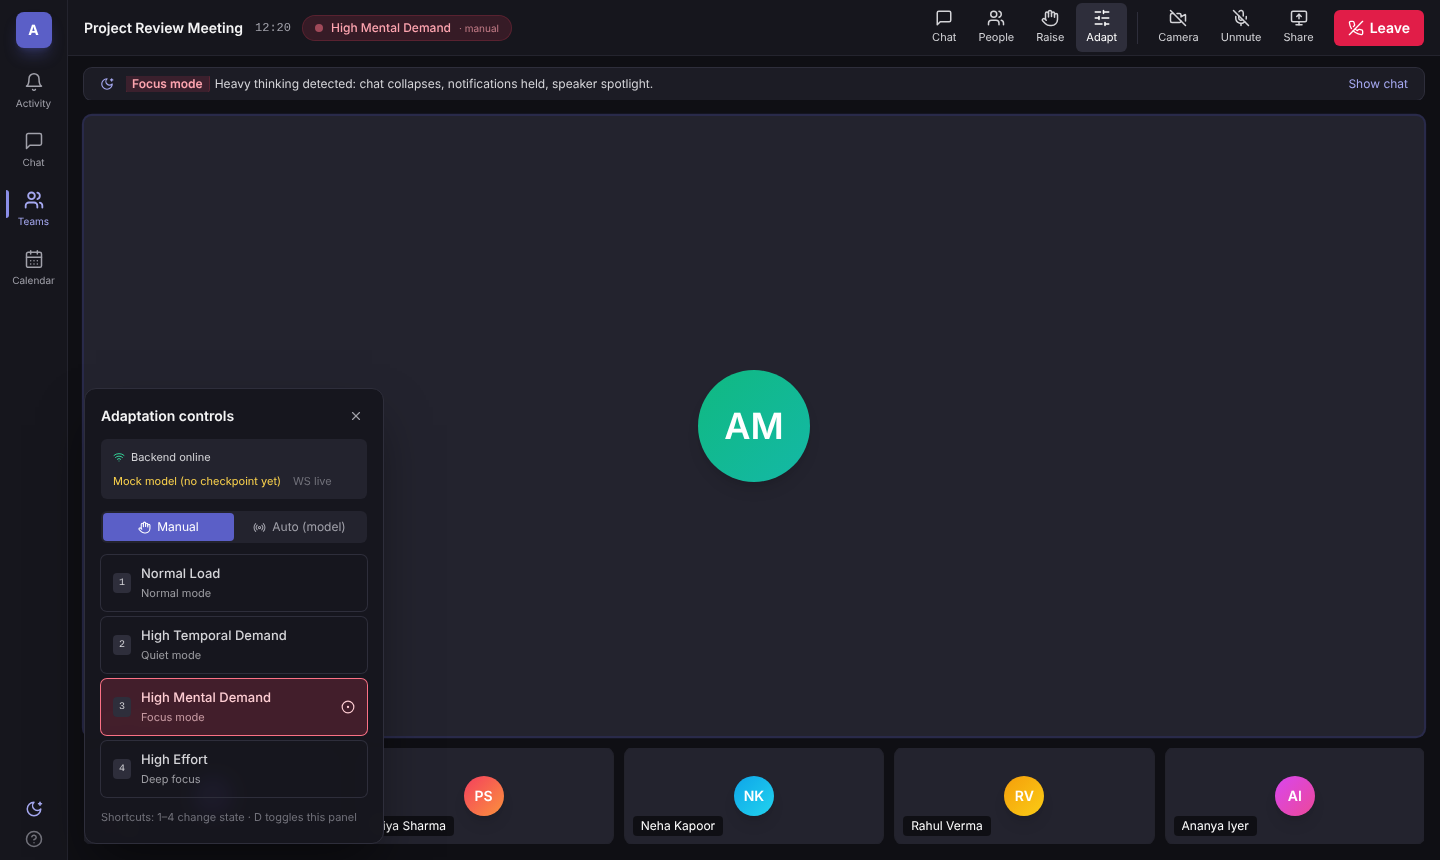
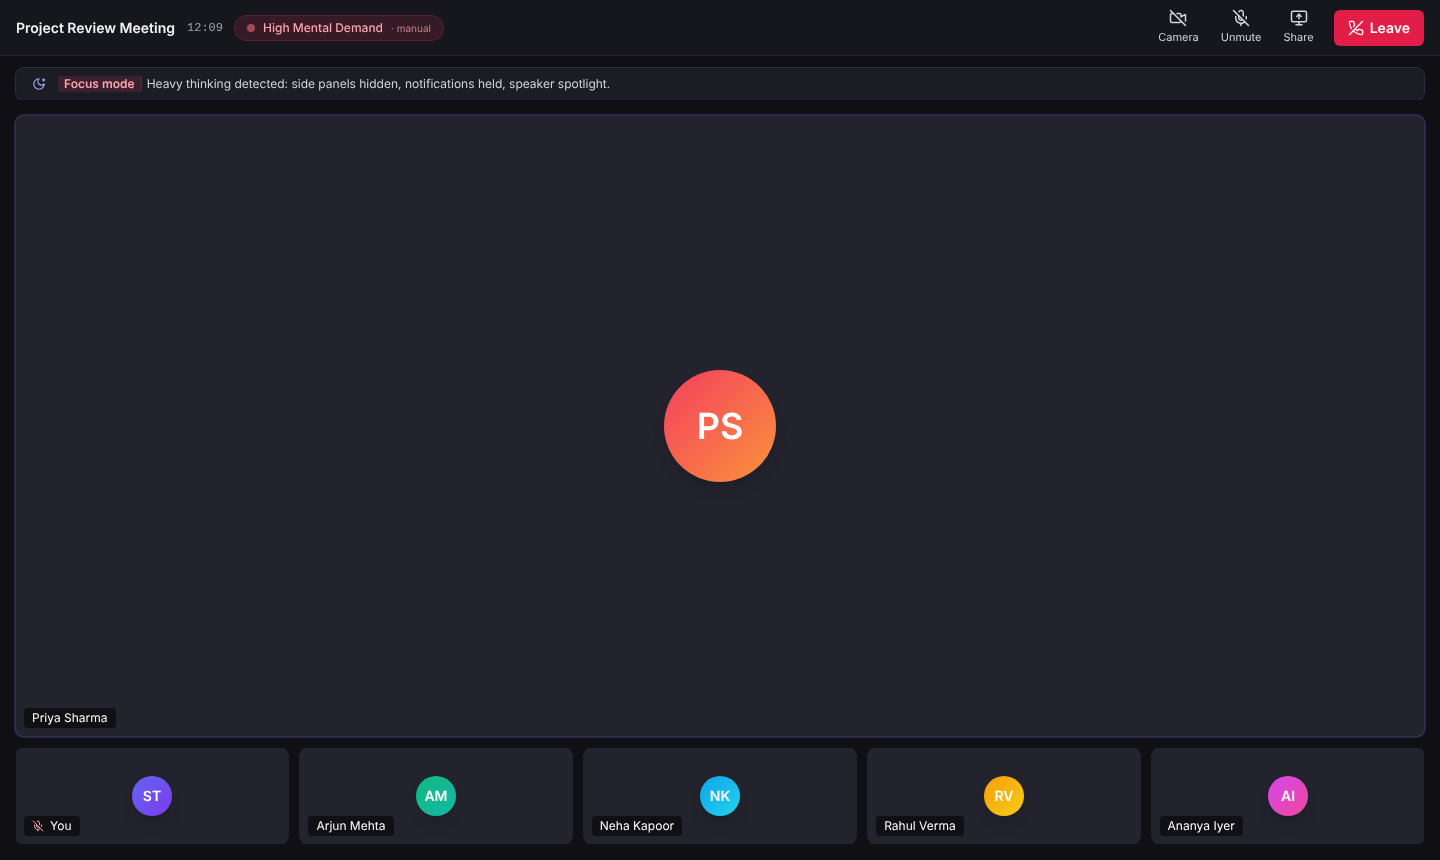
Focus and Deep focus: hide side panels, keep only Camera/Mic/Share

diff --git a/frontend/src/App.js b/frontend/src/App.js
@@ -28,7 +28,8 @@ export default function App() {
 
   // ---- meeting UI state ------------------------------------------------------
   const [chatOverride, setChatOverride] = useState(null); // user's own open/close beats the policy until the state changes
-  const chatOpen = chatOverride ?? adapt.chatOpen;
+  const minimal = Boolean(adapt.minimal); // Focus / Deep focus: no side panels, essential controls only
+  const chatOpen = minimal ? false : chatOverride ?? adapt.chatOpen;
   const [panelTab, setPanelTab] = useState("chat");
   const [demoOpen, setDemoOpen] = useState(true);
   const [micOn, setMicOn] = useState(false);
@@ -163,7 +164,7 @@ export default function App() {
       const idx = Number(e.key) - 1;
       if (idx >= 0 && idx < STATE_NAMES.length) setManualState(STATE_NAMES[idx]);
       else if (e.key.toLowerCase() === "d") setDemoOpen((o) => !o);
-      else if (e.key.toLowerCase() === "c") setChatOverride(!chatOpen);
+      else if (e.key.toLowerCase() === "c" && !STATES[stateRef.current].adapt.minimal) setChatOverride(!chatOpen);
     };
     window.addEventListener("keydown", onKey);
     return () => window.removeEventListener("keydown", onKey);
@@ -186,12 +187,18 @@ export default function App() {
 
   return (
     <div className="flex h-screen overflow-hidden bg-shell-950 font-sans text-zinc-100">
-      <LeftRail
-        badges={unread}
-        showBadges={adapt.badges}
-        focusActive={isFocusMode}
-        onSelect={(id) => (id === "chat" || id === "activity") && openPanel(id)}
-      />
+      {/* Left rail slides away in minimal modes */}
+      <div
+        className={`shrink-0 overflow-hidden transition-[width] duration-500 ease-in-out ${minimal ? "w-0" : "w-[68px]"}`}
+        aria-hidden={minimal}
+      >
+        <LeftRail
+          badges={unread}
+          showBadges={adapt.badges}
+          focusActive={isFocusMode}
+          onSelect={(id) => (id === "chat" || id === "activity") && openPanel(id)}
+        />
+      </div>
 
       <div className="flex min-w-0 flex-1 flex-col">
         <TopBar
@@ -204,6 +211,7 @@ export default function App() {
           chatOpen={chatOpen}
           chatBadge={badgeChat}
           demoOpen={demoOpen}
+          minimal={minimal}
           onToggleMic={() => setMicOn((v) => !v)}
           onToggleCam={() => setCamOn((v) => !v)}
           onToggleShare={() => setSharing((v) => !v)}
@@ -230,7 +238,7 @@ export default function App() {
                   {s.description}
                   {heldCount > 0 && <span className="ml-1 text-zinc-400">· {heldCount} held</span>}
                 </span>
-                {!chatOpen && (
+                {!chatOpen && !minimal && (
                   <button onClick={() => openPanel("chat")} className="shrink-0 text-brand-300 hover:text-brand-200">
                     Show chat
                   </button>

diff --git a/frontend/src/components/TopBar.js b/frontend/src/components/TopBar.js
@@ -30,7 +30,7 @@ function Ctrl({ label, active, onClick, children, badge, className = "" }) {
 }
 
 export default function TopBar({
-  cognitiveState, source, micOn, camOn, sharing, handRaised, chatOpen, chatBadge, demoOpen,
+  cognitiveState, source, micOn, camOn, sharing, handRaised, chatOpen, chatBadge, demoOpen, minimal,
   onToggleMic, onToggleCam, onToggleShare, onToggleHand, onToggleChat, onToggleDemo, onLeave,
 }) {
   const elapsed = useElapsed();
@@ -43,20 +43,25 @@ export default function TopBar({
       </div>
 
       <div className="flex items-center gap-0.5">
-        <Ctrl label="Chat" active={chatOpen} onClick={onToggleChat} badge={chatBadge}>
-          <MessageSquare size={18} />
-        </Ctrl>
-        <Ctrl label="People">
-          <Users size={18} />
-        </Ctrl>
-        <Ctrl label="Raise" active={handRaised} onClick={onToggleHand}>
-          <Hand size={18} />
-        </Ctrl>
-        <Ctrl label="Adapt" active={demoOpen} onClick={onToggleDemo}>
-          <SlidersHorizontal size={18} />
-        </Ctrl>
+        {/* Hidden in Focus / Deep focus: only Camera, Mic and Share stay */}
+        {!minimal && (
+          <>
+            <Ctrl label="Chat" active={chatOpen} onClick={onToggleChat} badge={chatBadge}>
+              <MessageSquare size={18} />
+            </Ctrl>
+            <Ctrl label="People">
+              <Users size={18} />
+            </Ctrl>
+            <Ctrl label="Raise" active={handRaised} onClick={onToggleHand}>
+              <Hand size={18} />
+            </Ctrl>
+            <Ctrl label="Adapt" active={demoOpen} onClick={onToggleDemo}>
+              <SlidersHorizontal size={18} />
+            </Ctrl>
 
-        <span className="mx-2 h-8 w-px bg-shell-700" />
+            <span className="mx-2 h-8 w-px bg-shell-700" />
+          </>
+        )}
 
         <Ctrl label="Camera" active={camOn} onClick={onToggleCam}>
           {camOn ? <Video size={18} /> : <VideoOff size={18} />}

diff --git a/frontend/src/config.js b/frontend/src/config.js
@@ -2,6 +2,9 @@
 // The ADAPTATION table is the "policy" of the system: how each predicted
 // cognitive-load state changes the interface. Tune it here; nothing else
 // needs to change. (Worth citing as a table in the research paper.)
+//
+// minimal: true  -> no side panels (left rail and chat panel) and only the
+//                   Camera, Mic and Share controls (plus Leave) in the top bar.
 
 export const API_BASE = (import.meta.env.VITE_API_URL || "http://127.0.0.1:8000").replace(/\/$/, "");
 export const WS_URL = API_BASE.replace(/^http/, "ws") + "/ws";
@@ -30,16 +33,16 @@ export const STATES = {
     short: "Mental",
     mode: "Focus mode",
     tone: "rose",
-    description: "Heavy thinking detected: chat collapses, notifications held, speaker spotlight.",
-    adapt: { chatOpen: false, badges: false, toasts: false, layout: "spotlight" },
+    description: "Heavy thinking detected: side panels hidden, notifications held, speaker spotlight.",
+    adapt: { chatOpen: false, badges: false, toasts: false, layout: "spotlight", minimal: true },
   },
   "High Effort": {
     key: "4",
     short: "Effort",
     mode: "Deep focus",
     tone: "fuchsia",
-    description: "High effort detected: everything non-essential hidden, active speaker only.",
-    adapt: { chatOpen: false, badges: false, toasts: false, layout: "speaker-only" },
+    description: "High effort detected: side panels hidden, notifications held, active speaker only.",
+    adapt: { chatOpen: false, badges: false, toasts: false, layout: "speaker-only", minimal: true },
   },
 };
 

diff --git a/README.md b/README.md
@@ -30,14 +30,14 @@ flowchart LR
 
 ### Adaptation policy
 
-| Predicted state | UI mode | Chat panel | Notifications and badges | Video layout |
-|---|---|---|---|---|
-| Normal Load | Normal | Open | Shown | Gallery |
-| High Temporal Demand | Quiet mode | Collapsed | Held | Gallery |
-| High Mental Demand | Focus mode | Collapsed | Held | Speaker spotlight + filmstrip |
-| High Effort | Deep focus | Collapsed | Held | Active speaker only |
+| Predicted state | UI mode | Side panels (left rail, chat) | Top-bar controls | Notifications and badges | Video layout |
+|---|---|---|---|---|---|
+| Normal Load | Normal | Shown, chat open | All | Shown | Gallery |
+| High Temporal Demand | Quiet mode | Rail shown, chat collapsed | All | Held | Gallery |
+| High Mental Demand | Focus mode | Hidden | Camera, Mic, Share only | Held | Speaker spotlight + filmstrip |
+| High Effort | Deep focus | Hidden | Camera, Mic, Share only | Held | Active speaker only |
 
-Notifications that arrive during a high-load state are **held rather than lost**. When the user returns to Normal Load, a single "While you were focused" summary appears. The user can always reopen the chat manually, and that choice is respected until the state changes. The policy lives in one table, `frontend/src/config.js`.
+Notifications that arrive during a high-load state are **held rather than lost**. When the user returns to Normal Load, a single "While you were focused" summary appears. In Quiet mode the user can reopen the chat manually, and that choice is respected until the state changes. In Focus and Deep focus the side panels stay hidden until the load drops. The policy lives in one table, `frontend/src/config.js`.
 
 To avoid the UI flickering on noisy predictions, the backend smooths each dimension with an exponential moving average plus hysteresis: P(High) must rise above **0.60** to enter a high state and fall below **0.40** to leave it (`StateSmoother` in `backend/inference.py`).
 
